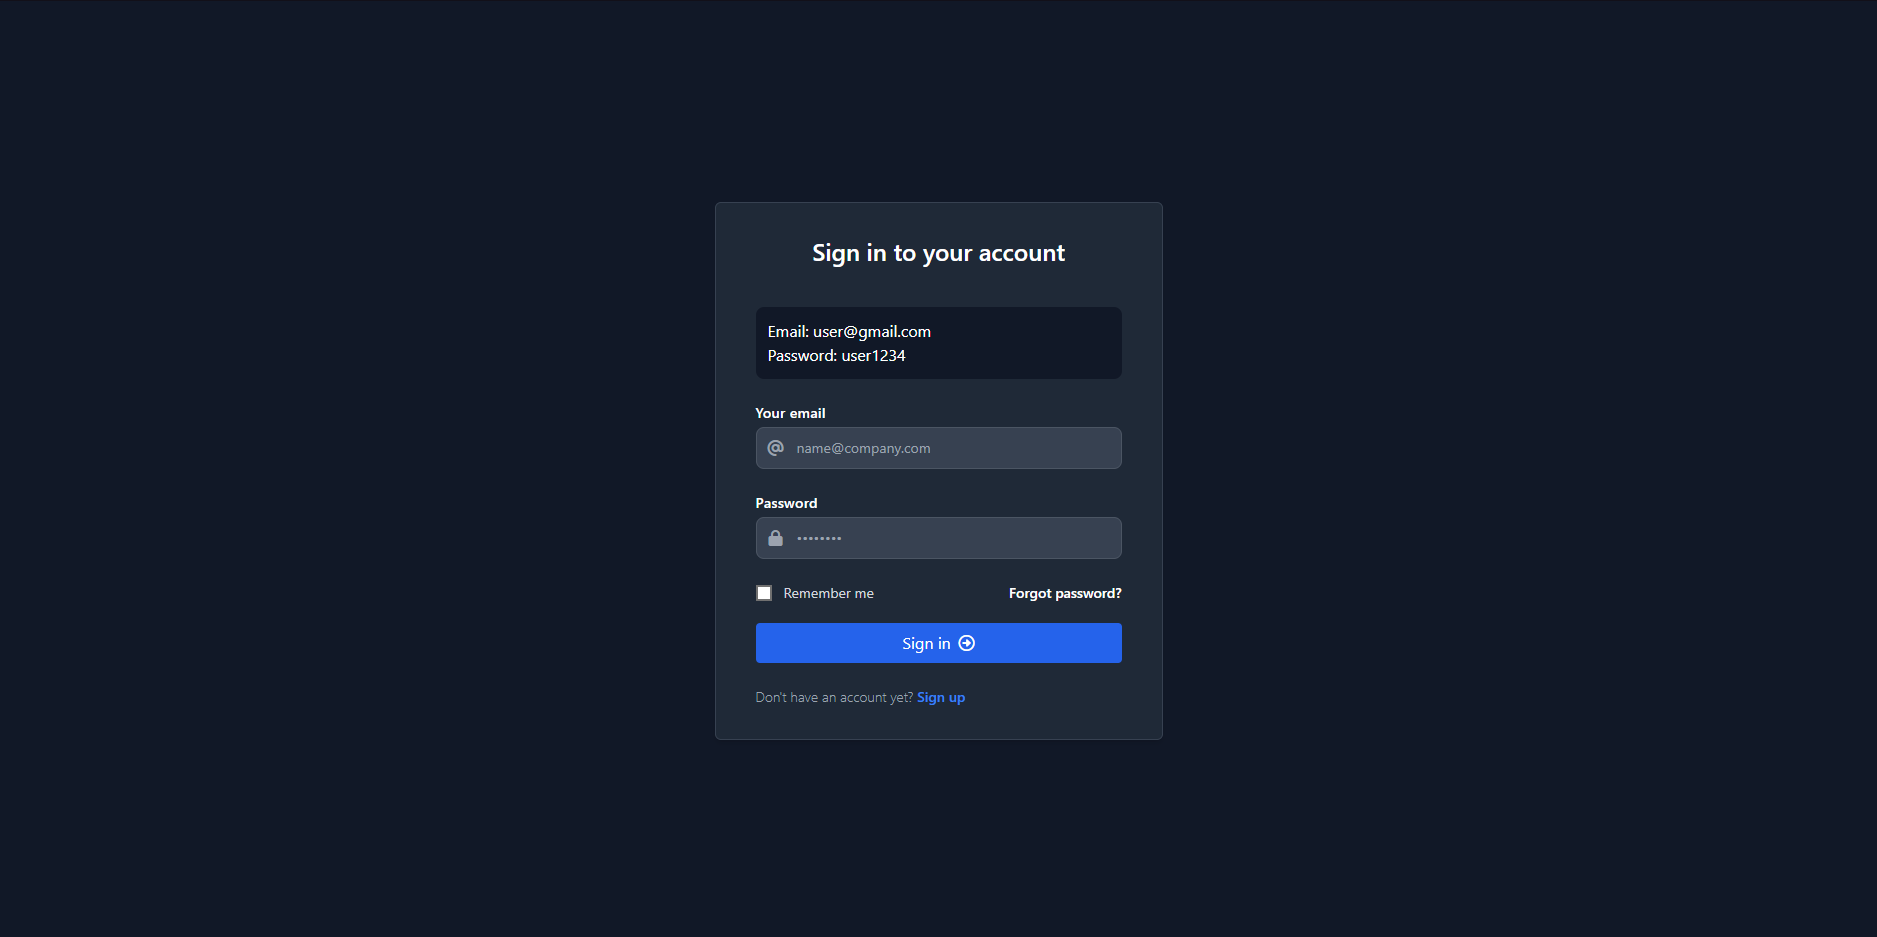
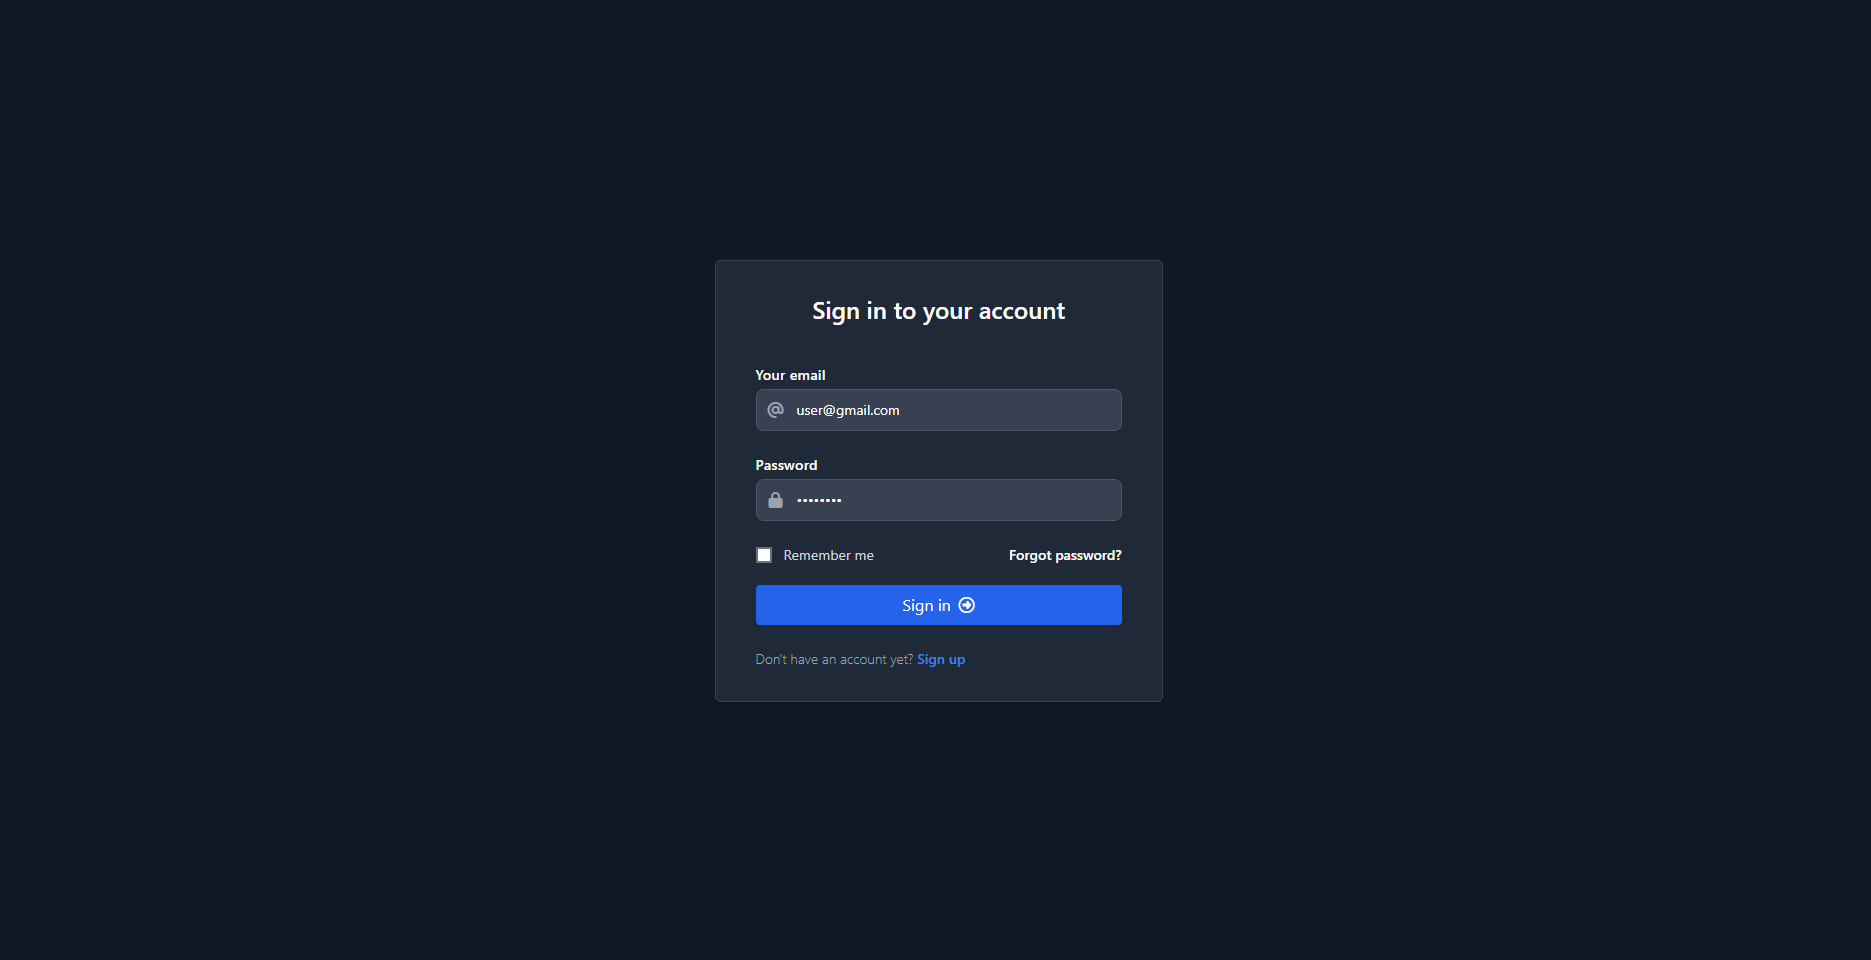
Update README.md

Changed region(s): [[0.403, 0.3095, 0.62, 0.7118], [0.434, 0.2476, 0.589, 0.2785], [0.403, 0.7428, 0.496, 0.7737]]

diff --git a/resources/views/auth/login.blade.php b/resources/views/auth/login.blade.php
@@ -52,10 +52,6 @@
             <div class="mt-10">
                 <form method="POST" action="{{ route('login') }}">
                     @csrf
-                    <div class="flex flex-col mb-6 p-3 rounded-lg dark:text-white dark:bg-gray-900">
-                        <p>{{ __('Email: user@gmail.com') }}</p>
-                        <p>{{ __('Password: user1234') }}</p>
-                    </div>
                     {{-- EMAIL INPUT --}}
                     <div class="flex flex-col mb-6">
                         <label for="email" class="mb-1 text-xs sm:text-sm tracking-wide font-medium dark:text-white">{{ __('Your email') }}</label>
@@ -63,7 +59,7 @@
                             <div class="inline-flex items-center justify-center absolute left-0 top-0 h-full w-10 text-gray-400">
                                 <i class="fa-solid fa-at"></i>
                             </div>
-                            <input id="email" type="email" name="email" class="pl-10 pr-4 bg-gray-50 border border-gray-300 text-gray-900 sm:text-sm rounded-lg focus:ring-primary-600 focus:border-primary-600 block w-full p-2.5 dark:bg-gray-700 dark:border-gray-600 dark:placeholder-gray-400 dark:text-white dark:focus:ring-blue-500 dark:focus:border-blue-500" placeholder="name@company.com">           
+                            <input id="email" type="email" name="email" class="pl-10 pr-4 bg-gray-50 border border-gray-300 text-gray-900 sm:text-sm rounded-lg focus:ring-primary-600 focus:border-primary-600 block w-full p-2.5 dark:bg-gray-700 dark:border-gray-600 dark:placeholder-gray-400 dark:text-white dark:focus:ring-blue-500 dark:focus:border-blue-500" value="user@gmail.com">           
                         </div>
                     </div>
                     {{-- PASSWORD INPUT --}}
@@ -73,7 +69,7 @@
                             <div class="inline-flex items-center justify-center absolute left-0 top-0 h-full w-10 text-gray-400">
                                 <i class="fa-solid fa-lock"></i>
                             </div>
-                            <input id="password" type="password" name="password" class="pl-10 pr-4 bg-gray-50 border border-gray-300 text-gray-900 sm:text-sm rounded-lg focus:ring-primary-600 focus:border-primary-600 block w-full p-2.5 dark:bg-gray-700 dark:border-gray-600 dark:placeholder-gray-400 dark:text-white dark:focus:ring-blue-500 dark:focus:border-blue-500" placeholder="••••••••">
+                            <input id="password" type="password" name="password" class="pl-10 pr-4 bg-gray-50 border border-gray-300 text-gray-900 sm:text-sm rounded-lg focus:ring-primary-600 focus:border-primary-600 block w-full p-2.5 dark:bg-gray-700 dark:border-gray-600 dark:placeholder-gray-400 dark:text-white dark:focus:ring-blue-500 dark:focus:border-blue-500" value="user1234">
                         </div>
                     </div>
                     <div class="flex items-center justify-between my-5">

diff --git a/resources/views/dashboard/profile.blade.php b/resources/views/dashboard/profile.blade.php
@@ -296,7 +296,7 @@
                 <div class="p-4 pb-0 mb-0 bg-white border-b-0 rounded-t-2xl">
                     <div class="flex flex-wrap -mx-3">
                         <div class="flex items-center w-full max-w-full px-3 shrink-0 md:w-8/12 md:flex-none">
-                            <img src="https://media-exp1.licdn.com/dms/image/C4D03AQHS6axQRJ6CVw/profile-displayphoto-shrink_800_800/0/1661532866902?e=1675900800&v=beta&t=35hOYx6guP1VHvMXupLtnVoUjNtCZgy6Hyx1pNKVRfQ" class="inline-flex items-center justify-center w-12 h-12 mr-2 text-white transition-all duration-200 ease-in-out text-sm rounded-xl"/>
+                            <img src="http://breeze-tailwind.test/assets/img/pessoalinda.jpeg" class="inline-flex items-center justify-center w-12 h-12 mr-2 text-white transition-all duration-200 ease-in-out text-sm rounded-xl"/>
                             <h6 class="mb-0">Peagah</h6>
                         </div>
                     </div>

diff --git a/README.md b/README.md
@@ -1,85 +1,25 @@
-<!-- PROJECT LOGO -->
-<br />
-<div align="center">
-  <h3 align="center">Breeze & Tailwind</h3>
-  <p align="center">
-    Simple CRUD using Breeze, Tailwind & mySQL
-  </p>
-</div>
+# BreezeCrud
 
-<!-- ABOUT THE PROJECT -->
-## About The Project
+Performing a Crud using Breeze and TailwindCSS.
 
-![Product Name Screen Shot][product-screenshot]
+## Functionalities
 
-### Built With
+- CRUD
+- Multiplataform
+- List with Pagination
+- Sidebar and Breadcrumb
+## Demonstration
 
-* [![html.com]][html-url]
-* [![php.net]][php-url]
-* [![Laravel.com]][Laravel-url]
-* [![Tailwind.com]][Tailwind-url]
-* [![mysql.com]][mysql-url]
+https://postimg.cc/XG2P1mwD
 
+https://postimg.cc/vg8jzb6V
+## Stack used
 
-<!-- GETTING STARTED -->
-## Getting Started
+**Frontend:** TailwindCSS
 
-### Prerequisites
-PHP v.8.1 or higher <br>
-Composer v2.5.1 or higher <br>
-NodeJS v18.12.0 or higher <br>
+**Backend:** PHP(Laravel - Breeze)
+## Documentation
 
-### Installation
+[TailwindCSS](https://tailwindcss.com)
 
-1. Clone the repo
-   ```sh
-   git clone https://github.com/Peagah-Vieira/Breeze-Tailwind.git
-   ```
-2. Install NPM packages
-   ```sh
-   npm install
-   ```
-3. Install Composer packages
-    ```sh
-    composer install
-    ```
-4. Migrate database
-    ```sh
-    php artisan migrate:fresh --seed
-    ```
-5. Edit the `.env.example` file and enter the required values
-   ```env
-   MAIL_MAILER=smtp
-   MAIL_HOST=mailhog
-   MAIL_PORT=1025
-   MAIL_USERNAME=null
-   MAIL_PASSWORD=null
-   MAIL_ENCRYPTION=null
-   MAIL_FROM_ADDRESS="hello@example.com"
-   MAIL_FROM_NAME="${APP_NAME}"
-   ```
-<!-- ACKNOWLEDGMENTS -->
-## Contact
-
-* [Instagram](https://www.instagram.com/pea_gah/)
-* [Email](mailto:peagahvieira2003@gmail.com)
-* [Linkedin](https://www.linkedin.com/in/pedro-henrique-vieira-073b62236/)
-
-
-<!-- MARKDOWN LINKS & IMAGES -->
-<!-- https://www.markdownguide.org/basic-syntax/#reference-style-links -->
-[license-shield]: https://img.shields.io/github/license/Peagah-Vieira/Gasparzinho-Discord-BOT.svg?style=for-the-badge
-[license-url]: https://github.com/github_username/repo_name/blob/master/LICENSE.txt
-[linkedin-shield]: https://img.shields.io/badge/-LinkedIn-black.svg?style=for-the-badge&logo=linkedin&colorB=555
-[linkedin-url]: https://www.linkedin.com/in/pedro-henrique-vieira-073b62236/
-[product-screenshot]: github/img/LoginScreen.png
-[html.com]: https://img.shields.io/badge/HTML5-E34F26?style=for-the-badge&logo=html5&logoColor=white
-[html-url]: https://developer.mozilla.org/pt-BR/docs/Web/HTML
-[php.net]: https://img.shields.io/badge/PHP-777BB4?style=for-the-badge&logo=php&logoColor=white
-[php-url]: https://www.php.net
-[Laravel.com]: https://img.shields.io/badge/Laravel-FF2D20?style=for-the-badge&logo=laravel&logoColor=white
-[Laravel-url]: https://laravel.com
-[Tailwind.com]: https://img.shields.io/badge/Tailwind_CSS-38B2AC?style=for-the-badge&logo=tailwind-css&logoColor=white
-[Tailwind-url]: https://tailwindcss.com
-[mysql.com]: https://img.shields.io/badge/MySQL-00000F?style=for-the-badge&logo=mysql&logoColor=white
-[mysql-url]: https://www.mysql.com
+[Laravel](https://laravel.com/docs/10.x/starter-kits)

diff --git a/readme-ptBR.md b/readme-ptBR.md
@@ -1,0 +1,28 @@
+# BreezeCrud
+
+Realizando um Crud utilizando Breeze e TailwindCSS.
+
+## Funcionalidades
+
+- CRUD
+- Multiplataforma
+- Lista com Paginação
+- Barra lateral e Breadcrumb
+
+## Demonstração
+
+https://postimg.cc/XG2P1mwD
+
+https://postimg.cc/vg8jzb6V
+
+## Stack utilizada
+
+**Front-end:** TailwindCSS
+
+**Back-end:** PHP(Laravel - Breeze)
+
+## Documentação
+
+[TailwindCSS](https://tailwindcss.com)
+
+[Laravel](https://laravel.com/docs/10.x/starter-kits)
